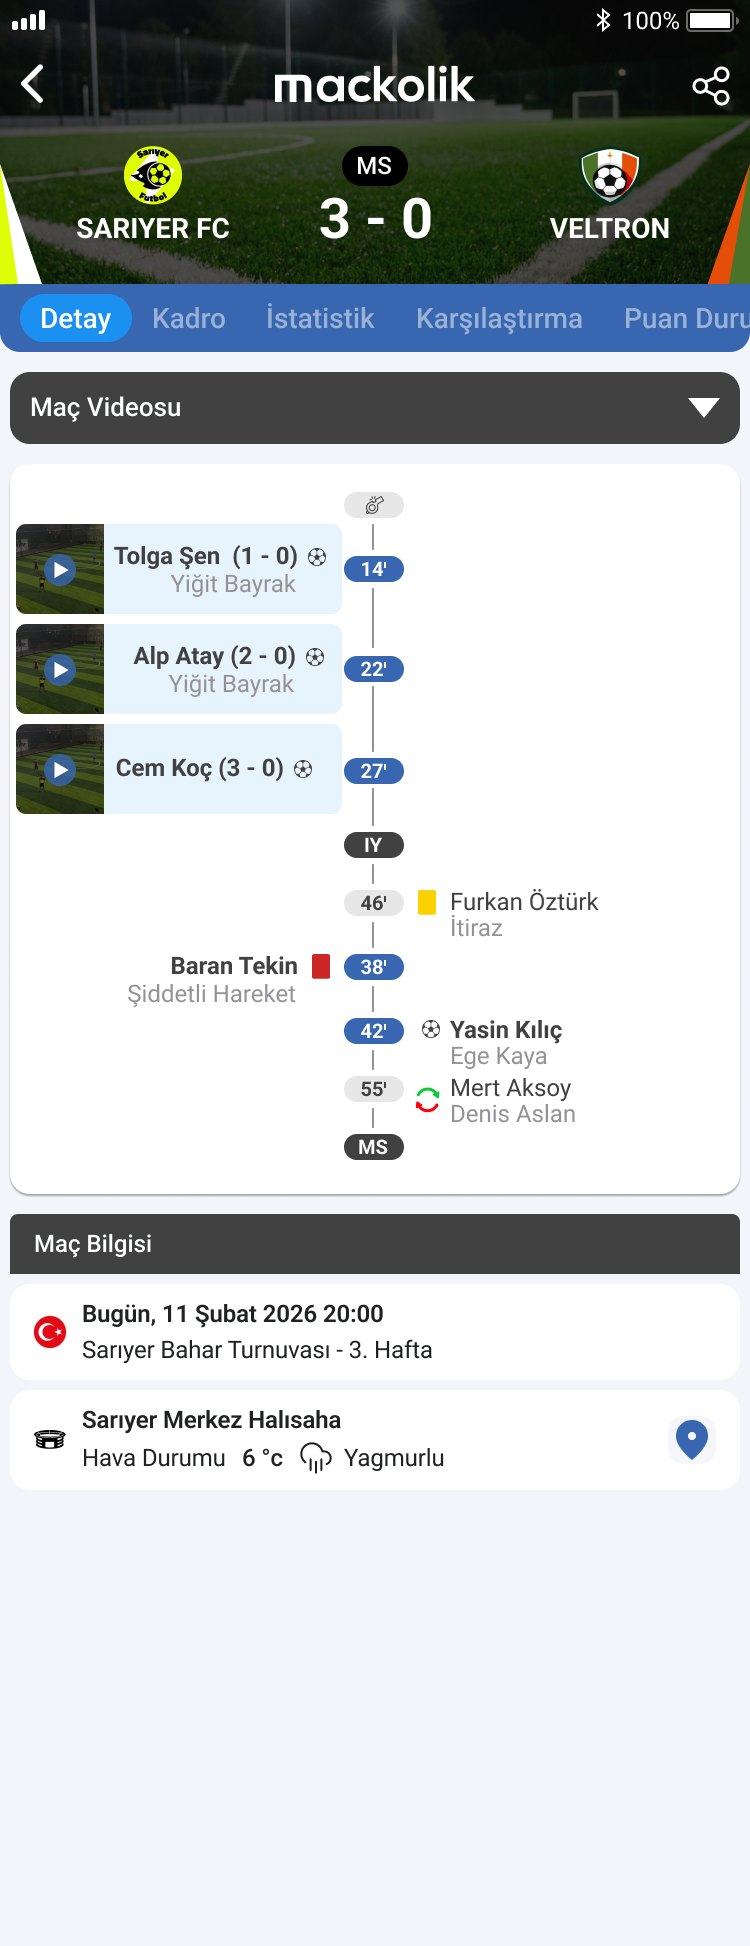
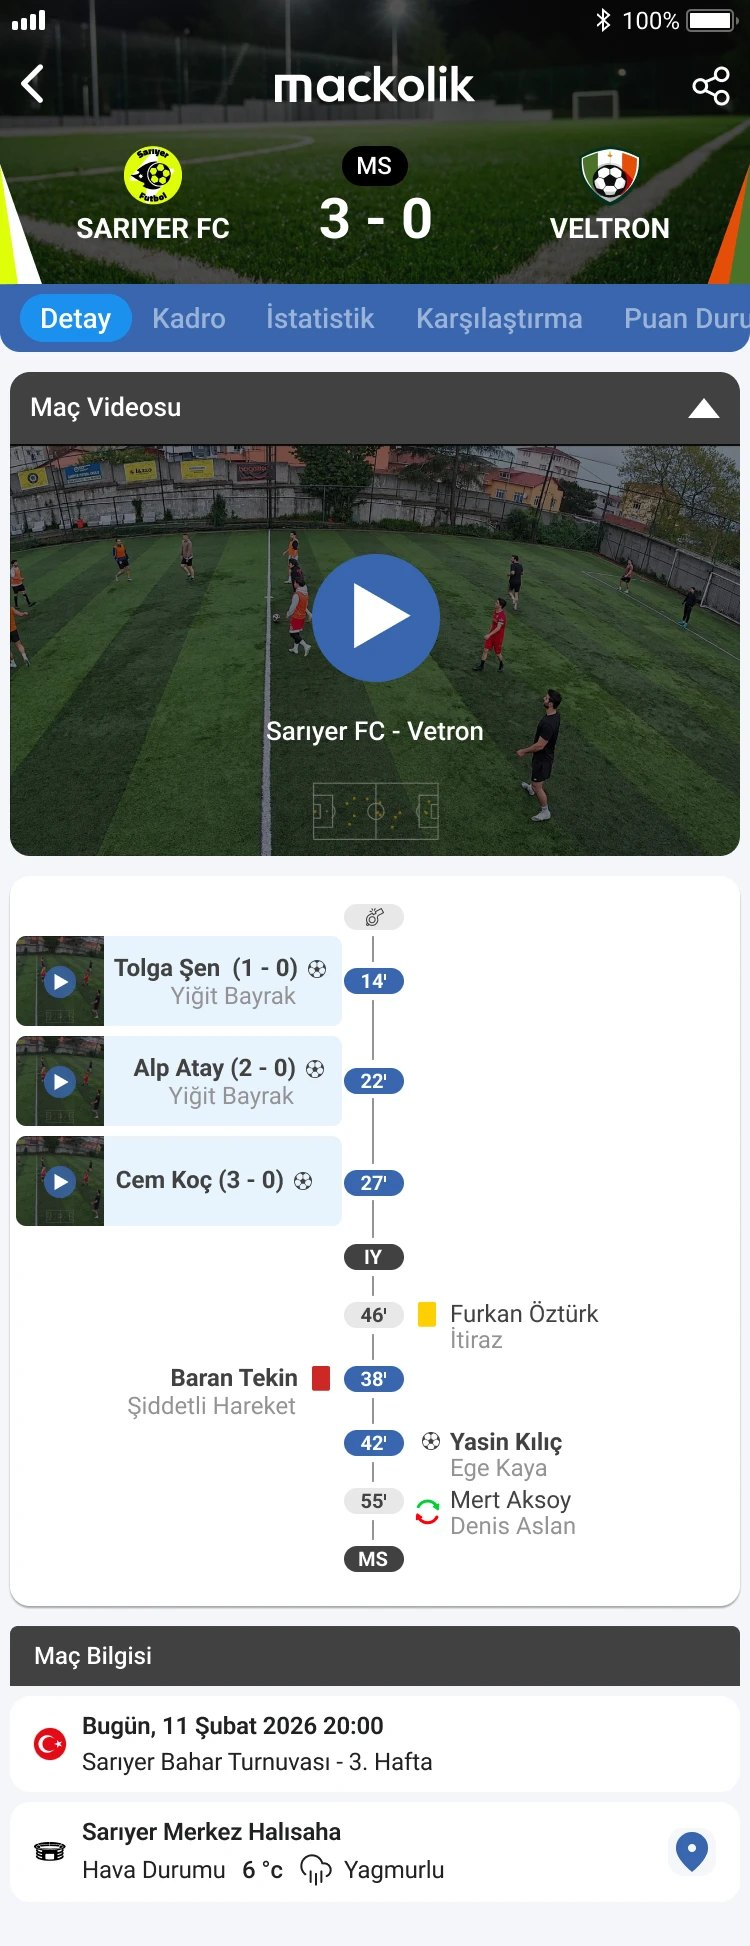
feat: hero telefonu revize maç detayı ekranı, mobilde de görünüyor
step-06-analiz.jpg kamera görüntüsü ortalanmış versiyonla değişti (hero ve 06.
adım aynı dosyayı kullanıyor). Hero telefonu artık mobilde butonların altında
240px; görsele fetchpriority=high ve daha açıklayıcı alt metni eklendi.

diff --git a/public/static-mahalle.html b/public/static-mahalle.html
@@ -112,11 +112,11 @@ p { margin: 0; text-wrap: pretty; }
 .hero .kicker { color: var(--sky); }
 .hero-lead { max-width: 520px; font-size: 18px; color: rgba(255,255,255,.86); }
 .hero-cta { display: flex; flex-wrap: wrap; gap: 12px; margin-top: 32px; }
-.hero-phone { display: none; }
+.hero-phone { width: 240px; margin: 8px auto 0; }
 .hero-credit { padding-bottom: 18px; font-size: 12px; color: rgba(255,255,255,.55); }
 @media (min-width: 900px) {
   .hero-grid { grid-template-columns: 1fr 300px; padding-top: 56px; padding-bottom: 72px; }
-  .hero-phone { display: block; }
+  .hero-phone { width: auto; margin: 0; }
 }
 
 /* Phone frame: screenshots are 750px wide app captures, cropped from the top */
@@ -310,7 +310,7 @@ p { margin: 0; text-wrap: pretty; }
         <a href="#yolculuk" class="btn btn--line">Nasıl çalışır?</a>
       </div>
     </div>
-    <div class="hero-phone phone"><div class="screen"><img src="https://www.mackolik.com/static-files/mahalle/media/step-06-analiz.jpg" width="750" height="1946" alt="Mackolik uygulamasında analiz edilmiş Mahalle maçı: Sarıyer FC 3-0 Veltron, maç videosu ve olay akışı"></div></div>
+    <div class="hero-phone phone"><div class="screen"><img src="https://www.mackolik.com/static-files/mahalle/media/step-06-analiz.jpg" width="750" height="1946" fetchpriority="high" alt="Mackolik uygulamasında Mahalle maç detayı: Sarıyer FC 3-0 Veltron, halı saha maç videosu, goller, kartlar ve oyuncu değişiklikleri"></div></div>
   </div>
   <p class="wrap hero-credit">Görüntüler: Mahalle’ye bağlı bir halı sahanın maç kaydı.</p>
 </header>
